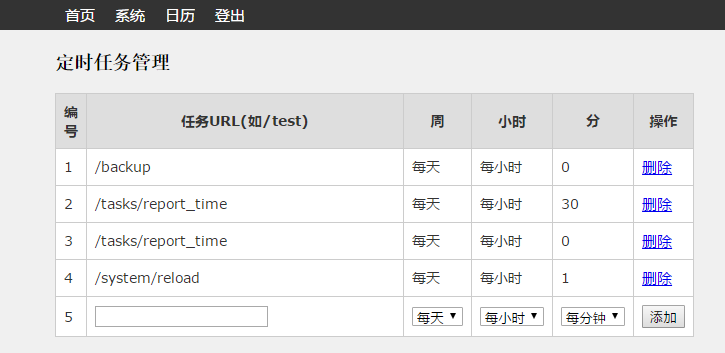
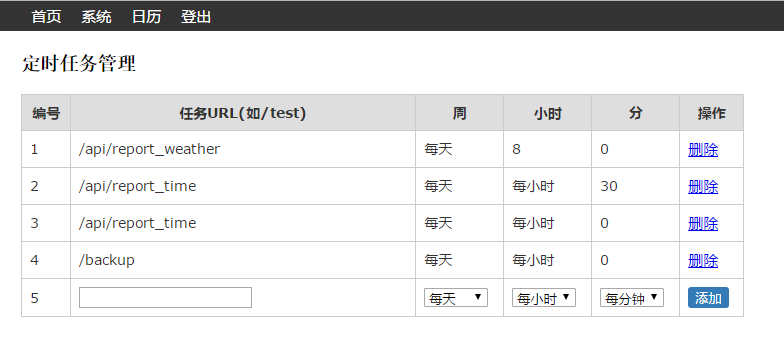
移动handlers/tasks -> handlers/api，统一成API层面的接口

diff --git a/handlers/code/encode.py b/handlers/code/encode.py
@@ -54,39 +54,49 @@ class handler:
 
     def encode_filelist(self, path):
         filelist = getfilelist(path)
+        # namefile = os.path.join(path, "xnote-index.json")
 
-        namefile = os.path.join(path, "xnote-index.json")
-
-        if os.path.exists(namefile):
+        # if os.path.exists(namefile):
             # 防止重复加密导致信息丢失
-            bakname = "xnote-index-%s.json" % time.strftime("%Y_%m_%d_%H_%M_%S")
-            os.rename(namefile, os.path.join(path, bakname))
+            # bakname = "xnote-index-%s.json" % time.strftime("%Y_%m_%d_%H_%M_%S")
+            # os.rename(namefile, os.path.join(path, bakname))
 
         rename_dict = {}
         for index, file in enumerate(filelist):
-            newname = "%03d" % index
-            if file.name.endswith(".json"):
+            if file.type == "dir":
                 continue
+            if file.name.endswith(".xenc"):
+                continue
+            newname = base64.urlsafe_b64encode(file.name.encode("utf-8")).decode("utf-8") + ".xenc"
             newpath = os.path.join(path, newname)
             os.rename(file.path, newpath)
-            rename_dict[newname] = base64.b64encode(file.name.encode("utf-8")).decode("utf-8")
-        text = json.dumps(rename_dict)
-        namefile = os.path.join(path, "xnote-index.json")
-        xutils.savetofile(namefile, text)
+        #     if file.name.endswith(".json"):
+        #         continue
+        #     newpath = os.path.join(path, newname)
+        #     os.rename(file.path, newpath)
+        #     rename_dict[newname] = base64.b64encode(file.name.encode("utf-8")).decode("utf-8")
+        # text = json.dumps(rename_dict)
+        # namefile = os.path.join(path, "xnote-index.json")
+        # xutils.savetofile(namefile, text)
 
     def decode_filelist(self, path):
-        namefile = os.path.join(path, "xnote-index.json")
-        text = xutils.readfile(namefile)
-        rename_dict = json.loads(text)
+        # namefile = os.path.join(path, "xnote-index.json")
+        # text = xutils.readfile(namefile)
+        # rename_dict = json.loads(text)
+        # for key in rename_dict:
+        #     newname = rename_dict[key]
+        #     newname = base64.b64decode(newname.encode("utf-8")).decode("utf-8")
+        #     print(newname)
 
         filelist = getfilelist(path)
         for index, file in enumerate(filelist):
-            if file.name.endswith(".json"):
+            if file.type == "dir":
                 continue
-            if file.name not in rename_dict:
+            if not file.name.endswith(".xenc"):
                 continue
-            newname = rename_dict[file.name]
-            newname = base64.b64decode(newname.encode("utf-8")).decode("utf-8")
+            name = file.name[:-5]
+            newname = base64.urlsafe_b64decode(name.encode("utf-8")).decode("utf-8")
+            # print(newname)
             newpath = os.path.join(path, newname)
             os.rename(file.path, newpath)
 

diff --git a/handlers/search/translate.py b/handlers/search/translate.py
@@ -2,7 +2,14 @@
 # Created by xupingmao on 2017/06/11
 # 
 
-"""Description here"""
+"""英汉、汉英词典
+
+dictDTB结构
+_id integer primary key autoincrement,en text,cn text,symbol text
+
+symbol指音标
+
+"""
 
 import sys
 import os
@@ -13,6 +20,17 @@ import xconfig
 
 SearchResult = xutils.SearchResult
 
+def wrap_results(dicts, origin_key):
+    files = []
+    for f0 in dicts:
+        f = SearchResult()
+        f.name = "翻译 - " + f0[origin_key]
+        # f.content = f0["cn"]
+        f.raw = f0["en"] + "\n"
+        f.raw += f0["cn"].replace("\\n", "\n")
+        files.append(f)
+    return files
+
 def search(word):
     word = word.lower()
     path = os.path.join(xconfig.DATA_PATH, "dictionary.db")
@@ -20,13 +38,19 @@ def search(word):
         return []
     sql = "SELECT * FROM dictTB WHERE LOWER(en)=?"
     dicts = xutils.db_execute(path, sql, (word,))
-    files = []
-    for f0 in dicts:
-        f = SearchResult()
-        f.name = "翻译 - " + f0["en"]
-        f.content = f0["cn"]
-        f.raw = f0["cn"].replace("\\n", "\n")
-        files.append(f)
-    return files
+    return wrap_results(dicts, "en")
+
+def zh2en(word):
+    word = word.lower()
+    path = os.path.join(xconfig.DATA_PATH, "dictionary.db")
+    if not os.path.exists(path):
+        return []
+    sql = "SELECT * FROM dictTB WHERE cn LIKE ?"
+    dicts = xutils.db_execute(path, sql, ('%' + word,))
+    if len(dicts) > 0:
+        return wrap_results(dicts, "cn")
+    sql = "SELECT * FROM dictTB WHERE cn LIKE ?"
+    dicts = xutils.db_execute(path, sql, ('%' + word + '%',))
+    return wrap_results(dicts, "cn")
 
 # xmanager.register_search_func(r"(.*)", find_translate)

diff --git a/handlers/search/search.py b/handlers/search/search.py
@@ -182,9 +182,10 @@ load_mapping(r"calc(.*)",               "handlers.search.calc.do_calc")
 load_mapping(r"(.*[0-9]+.*)",           "handlers.search.calc.try_calc")
 load_mapping(r"(.*)",                   "handlers.search.pydoc.search")
 load_mapping(r"([^ ]*)",                "handlers.search.translate.search")
+load_mapping(r"翻译\s+([^ ]+)",        "handlers.search.translate.zh2en")
 load_mapping(r"([^ ]*)",                "handlers.search.tools.search")
 load_mapping(r"([^ ]*)",                "handlers.search.scripts.search")
-load_mapping(r"([^ ]*)",                "handlers.search.tasks.search")
+load_mapping(r"([^ ]*)",                "handlers.search.api.search")
 load_mapping(r"(\d+)分钟后提醒我?(.*)", "handlers.search.reminder.search")
 load_mapping(r"静音(.*)",               "handlers.search.mute.search")
 load_mapping(r"取消静音",               "handlers.search.mute.cancel")

diff --git a/handlers/api/test_network.py b/handlers/api/test_network.py
@@ -1,0 +1,30 @@
+# -*- coding:utf-8 -*-
+# Created on 2017/06/18
+# Author: xupingmao 578749341@qq.com  
+# Copyright (c) 2017
+# 
+# Last Modified
+
+"""Description here"""
+import time
+import socket
+import xutils
+
+def check_network_health():
+    try:
+        infolist = socket.getaddrinfo('baidu.com', 80)
+        return len(infolist) > 0
+    except:
+        return False
+
+class handler:
+    def GET(self):
+        for i in range(1, 11):
+            if not check_network_health():
+                xutils.say("网络连接异常,重试第%s次" % i)
+            else:
+                xutils.say("网络连接正常")
+                return dict(code="success")
+            time.sleep(1)
+        return dict(code="fail", message="网络连接异常")
+

diff --git a/handlers/search/api.py b/handlers/search/api.py
@@ -5,7 +5,7 @@ import xutils
 import xconfig
 
 SearchResult = xutils.SearchResult
-ROOT_PATH = os.path.join(xconfig.HANDLERS_DIR, "tasks")
+ROOT_PATH = os.path.join(xconfig.HANDLERS_DIR, "api")
 
 # 定时任务别名
 _task_name_dict = {
@@ -30,7 +30,7 @@ def search(name):
         task_command = _task_name_dict[task_name]
         if name in task_name:
             result = SearchResult()
-            result.name = "定时任务 - " + task_name
-            result.command = "/tasks/%s" % task_command
+            result.name = "系统接口 - " + task_name
+            result.command = "/api/%s" % task_command
             results.append(result)
     return results

diff --git a/handlers/search/tools.py b/handlers/search/tools.py
@@ -1,7 +1,7 @@
 # -*- coding:utf-8 -*-  
 # Created by xupingmao on 2017/06/11
+# Copyright (c) 2017
 # 
-
 """Description here"""
 
 import os

diff --git a/README.md b/README.md
@@ -55,7 +55,7 @@ xnote
 |   |-- system/  # 系统功能目录
 |   |-- file/   # 资料目录
 |   |-- tools/   # 工具目录
-|   |-- tasks/   # 定时任务
+|   |-- api/    # 系统接口，返回JSON格式，供页面、定时任务、搜索调用
 |   |-- ...     # 其他目录
 |-- tests/       # 测试用例
 |-- app.py      # 程序入口
@@ -69,27 +69,26 @@ xnote
 
 ```
 
+### 扩展
 
-## 功能结构
-
-- 自动搜索`handlers`目录下的Python文件中的handler，可以通过继承约定或者设置`xurls`属性来配置路由，下面是一个例子
+在handlers目录下添加python程序，比如test.py
 
 ```py
-# 最简单的handler
 class handler:    
     def GET(self):
         return "success"
-
+# 如果配置了xurls全局变量，xnote会注册指定的url pattern否则按照相对handlers的路径注册
 xurls = ("/test", handler)
-# 放在handlers目录下面，然后访问浏览器localhost:1234/test就会看到success
+# 启动xnote，访问浏览器localhost:1234/test就会看到success
 ```
 
-- `handlers/tasks`是定时任务, 需要在任务管理功能中增加服务地址，设置执行周期，如下图（分别是备份和系统监控的定时任务)
 
-![定时任务配置](https://git.oschina.net/xupingmao/xnote/raw/master/static/img/%E5%AE%9A%E6%97%B6%E4%BB%BB%E5%8A%A1%E9%85%8D%E7%BD%AE.PNG)
+## 功能结构
 
-- `handlers/tools`目录下是开发工具，可以通过搜索功能定位
-- `$DATA_DIR/scripts/`目录下是系统脚本,直接与操作系统交互
+### 文档管理
+- Markdown编辑器
+- 文档标签
+- 搜索
 
 ### 搜索
 - 笔记搜索
@@ -97,6 +96,7 @@ xurls = ("/test", handler)
 - 翻译（由于版权问题，数据库未上传）
 - 计算简单的数学公式
 - 添加语音提醒，比如 {30|数字}分钟后提醒我{读书},那么30分钟后就会听到电脑姐姐的温馨提醒了^_^
+
 
 ### 集成的工具
 - 文件浏览器
@@ -106,6 +106,15 @@ xurls = ("/test", handler)
 - 代码模板(code\_template)
 - 语音播报
 - 天气信息抓取(中国天气网数据)
+
+
+### 定时任务
+- 通过配置页面设置要调用的URL和时间匹配规则即可
+
+![定时任务配置](https://git.oschina.net/xupingmao/xnote/raw/master/static/img/%E5%AE%9A%E6%97%B6%E4%BB%BB%E5%8A%A1%E9%85%8D%E7%BD%AE.PNG)
+
+- `handlers/tools`目录下是开发工具，可以通过搜索功能定位
+- `$DATA_DIR/scripts/`目录下是系统脚本,直接与操作系统交互
 
 ### 其他
 - debug模式下自动侦测文件修改并重新加载
